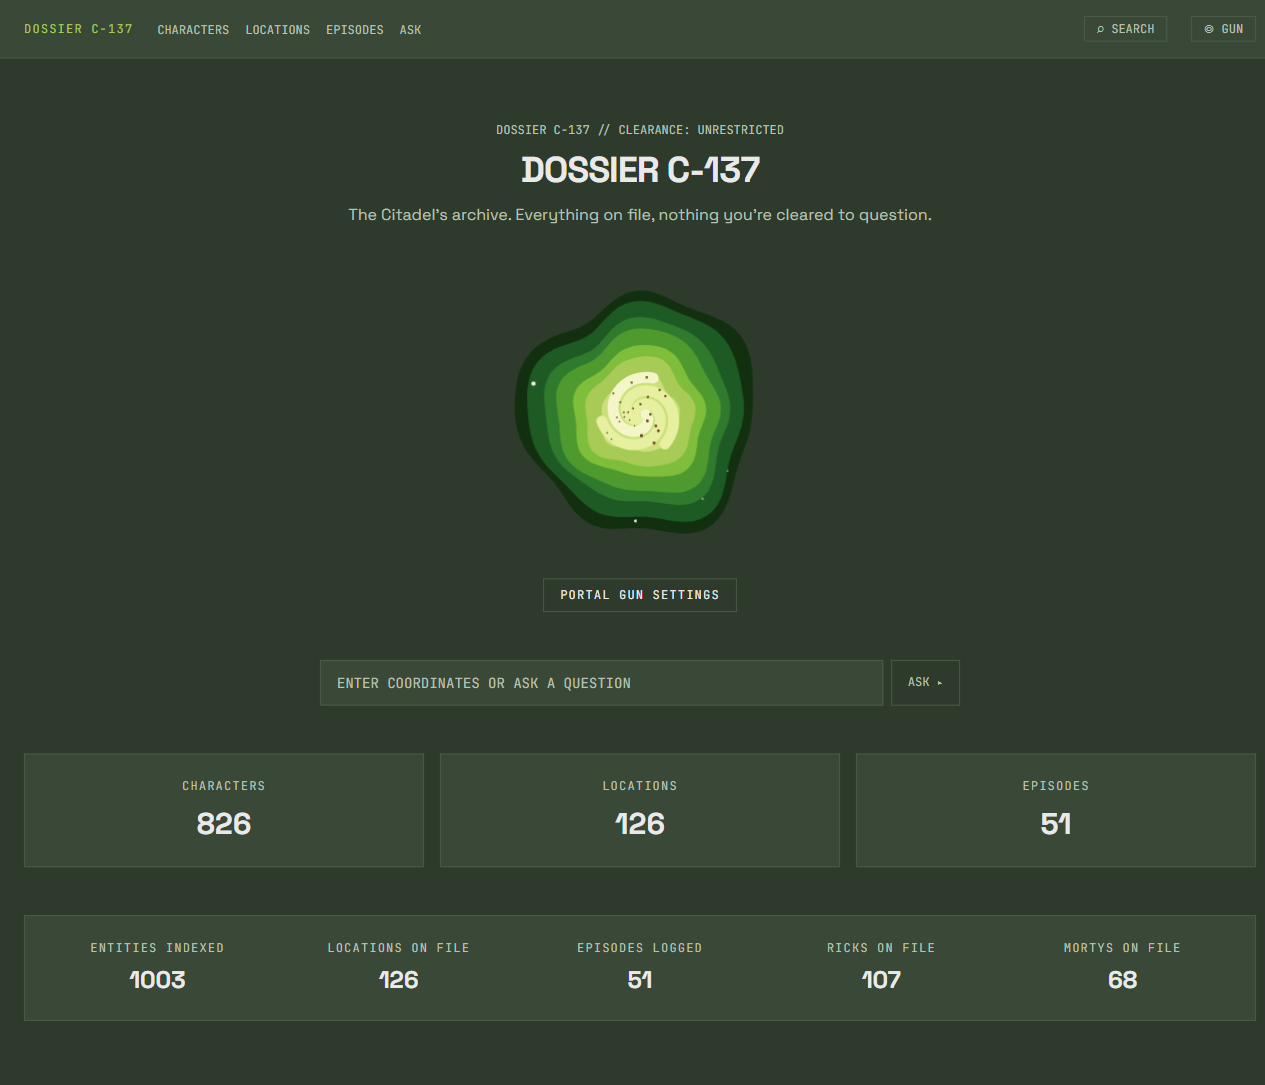
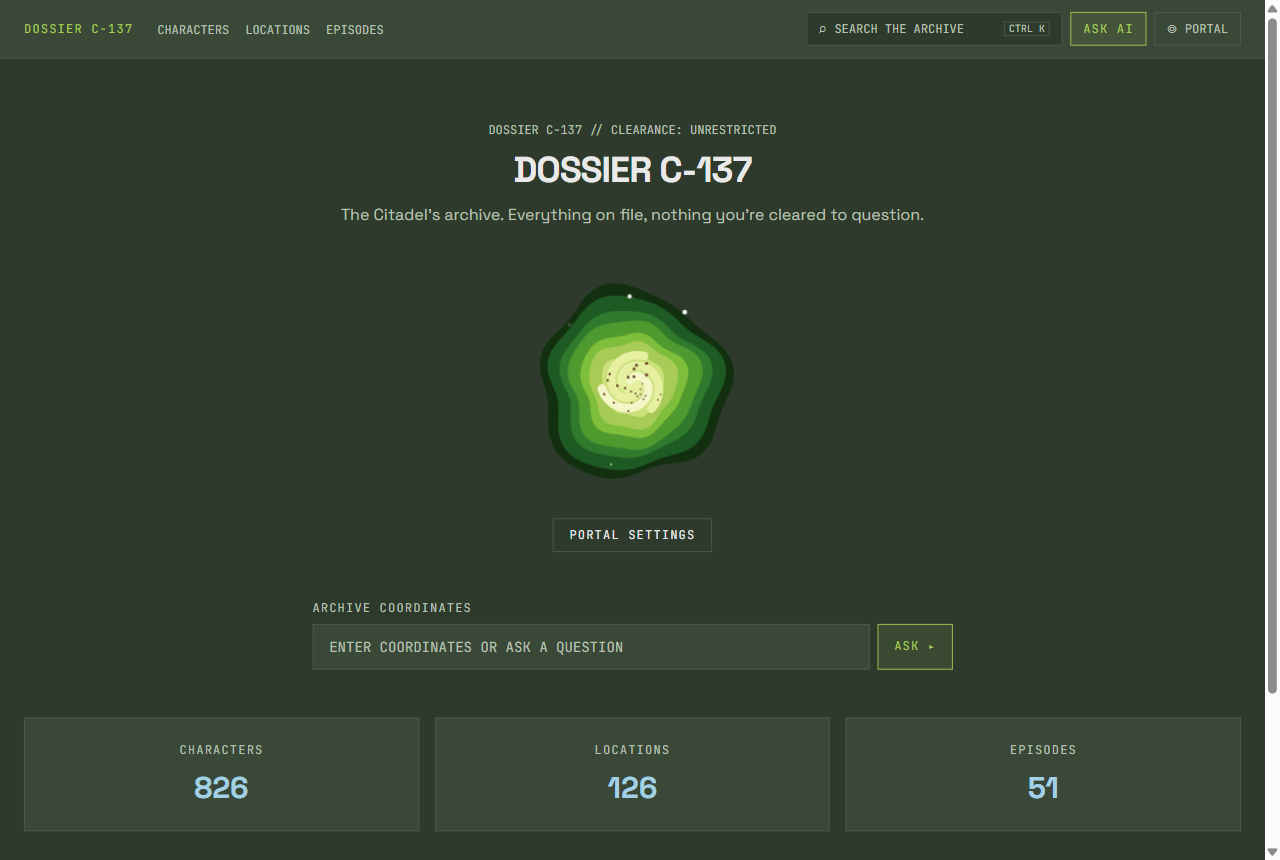
docs: refresh the README and the review record for the second pass
New behaviour in the feature list, the audio note rewritten now that the
setting is gone too, test count at 445, screenshots retaken against the new
header, and the review document turned from "what is left" into "what closed
each finding".

Claude-Session: https://claude.ai/code/session_01PLY2pXq8wKKG8ssLbBiP7M

diff --git a/README.md b/README.md
@@ -21,11 +21,15 @@ records.
 
 - **Three sections** — characters, locations, episodes — each with filters, pagination and skeleton loading.
 - **Detail pages arrive whole.** A character dossier carries its origin, its last known location and every episode it appears in; the frontend never fans out into a dozen follow-up requests.
-- **Search across all three entity types at once**, from `⌘K` / `Ctrl+K`, from the header, or from the hub.
+- **Search across all three entity types at once**, from `⌘K` / `Ctrl+K`, from the header field, or from the hub.
+- **Long rolls are paged, not dumped.** Fifty-one episodes on a dossier become one slide per season, and a hundred residents become pages of eight — arrows on a desktop, an ordinary swipe on a phone, because the track is a real scroll container with snap points.
+- **Episodes filter by season** from a chip row, on top of the title and code fields.
+- **In-page back and forward**, plus a trail of where you are, so moving sideways through the archive does not depend on the browser chrome. Every route change starts at the top of the page.
 - **A grounded AI chat.** Ask a question in English; the server retrieves real records first and hands the model those records as its only permitted source of facts. The sources are shown, and they are clickable.
 - **A generated field assessment on every character**, in the voice you chose, written once and stored forever.
 - **Three dimensions instead of two themes** — `C-137` (dark), `Citadel` (light), `Cronenberg-1` (dark) — persisted, and applied before first paint so a light-theme visitor never sees a dark flash.
-- **The portal transition is the loading indicator.** It lasts exactly as long as the request behind it.
+- **The portal transition is the loading indicator.** It lasts exactly as long as the request behind it, as a small badge over a blurred scrim rather than a full-screen takeover.
+- **Settings are three tabs** — dimension, AI voice, motion — in a popover anchored to the header, not a column that pushes the page down.
 
 ## Every external call happens on the server
 
@@ -181,25 +185,27 @@ into something automatically verified rather than a matter of trust.
 
 ## Known issues
 
-- **There is no audio.** Dossiers are read, not narrated. A second paid provider with its own quota and failure modes was not worth a button nobody grades; the AI bonus is carried by the grounded chat and the dossiers, which are the parts that show retrieval and prompt work. The specification still lists ElevenLabs under its stack — the README is the accurate document.
+- **There is no audio at all.** Dossiers are read, not narrated, and the portal fires silently — the synthesized whoosh and its setting were removed rather than left as a toggle nobody wanted. A second paid provider with its own quota and failure modes was not worth a button nobody grades; the AI bonus is carried by the grounded chat and the dossiers, which are the parts that show retrieval and prompt work. The specification still lists ElevenLabs under its stack — the README is the accurate document.
 - **Edge Function cold starts** add 200–500 ms to the first request after an idle period. The portal transition absorbs it, but a cold first load is visibly slower.
 - **AI daily quotas.** 30 questions and 10 dossier generations per caller per day, plus a global ceiling of 500. Exhausting one returns a portal-gun-out-of-fluid message, not an error page.
 - **No SSR**, so the first paint waits for JavaScript.
-- **The first `Ctrl+K` after typing a URL** can be swallowed by the browser's address bar, which still holds focus. Click once in the page, or use the `⌕ SEARCH` button. The listener itself is attached above every lazy route boundary — there is a test for that.
+- **The first `Ctrl+K` after typing a URL** can be swallowed by the browser's address bar, which still holds focus. Click once in the page, or use the header's search field. The listener itself is attached above every lazy route boundary — there is a test for that.
 - **The AI voices can converge over a long conversation.** Each question carries the last six turns back to the model, and a model reads its own earlier prose as a style guide. The prompt now forbids imitating an earlier turn, and on a fresh question the two are plainly distinct — Rick opens "Who cares, another Birdperson," Morty opens "Aw jeez, um…" — but the pull is still there deep into a thread. Switching voice mid-conversation is the workaround.
-- **Half of all origins are `unknown`** upstream. The redaction bar is a routine field state here, not a flourish.
+- **Half of all origins are `unknown`** upstream. A `REDACTED` chip is a routine field state here, not a flourish; a value the archive never held reads `NOT ON FILE` instead.
+- **Route changes give up the browser's scroll restoration.** Going back to a list returns you to its top rather than to the row you left — deliberate, because arriving mid-page reads as a broken render.
 
 ## Testing
 
-428 tests: 272 on the frontend under Vitest with React Testing Library and MSW,
+445 tests: 289 on the frontend under Vitest with React Testing Library and MSW,
 156 on the backend under Deno test against stubbed clients. Both suites, the
 build and the lint pass on `main` as published — `npm run lint` reports 0 errors
 and 13 `react-refresh/only-export-components` warnings, all of them on filter
 components that export a constant beside the component.
 
 Effort concentrates on branching logic rather than markup: filter parsing, cache
-keys, relation expansion, the portal state machine, retrieval and grounding,
-quota accounting, and the contrast grid. `npm test` does not type-check — Vitest
+keys, relation expansion, the portal state machine, season grouping and the
+carousel pager, in-page history, retrieval and grounding, quota accounting, and
+the contrast grid. `npm test` does not type-check — Vitest
 transpiles without checking — so `npm run build` is part of every verification.
 
 ## How it was built
@@ -214,3 +220,4 @@ test-first with the tests written before the code.
 | [`docs/superpowers/plans/`](docs/superpowers/plans/) | Five plans: foundation, entities, portal, AI, polish |
 | [`docs/design/tokens.md`](docs/design/tokens.md) | Ten source colours, three palettes, every pair contrast-checked |
 | [`docs/design/visual-direction.md`](docs/design/visual-direction.md) | The direction taken, the alternatives rejected, and why |
+| [`docs/superpowers/design-review-remaining.md`](docs/superpowers/design-review-remaining.md) | The design review: every finding, and the commit that closed it |

diff --git a/docs/superpowers/design-review-remaining.md b/docs/superpowers/design-review-remaining.md
@@ -1,10 +1,10 @@
-# Design review — what is fixed and what is left
+# Design review — findings and what closed them
 
-Run 2026-08-20 against the dev server at 1280px and 375px, with the live API
-behind it. Five findings fixed and committed; the rest are recorded here with
-the evidence, so the next session can pick them up without re-measuring.
+Two passes, both run against the dev server at 1280px and 375px with the live
+API behind it. Every finding below is closed; the evidence is kept so a later
+session can tell a deliberate decision from an accident.
 
-## Fixed
+## Pass one — 2026-08-20, findings 001–005
 
 | ID | Finding | Commit |
 |---|---|---|
@@ -14,43 +14,33 @@ the evidence, so the next session can pick them up without re-measuring.
 | 004 | Character field list had no measure cap; label at x=348, value at x=1256 | `ba3b911` |
 | 005 | The AI field assessment sat below 51 episode rows | `ba3b911` |
 
-## Left, in impact order
+## Pass two — 2026-08-20, findings 006–012
 
-**FINDING-006 — pagination buttons are both called "JUMP" (medium).**
-`src/shared/ui/Pagination.tsx`. Previous and next read `← JUMP` and `JUMP →`,
-so direction lives entirely in an arrow glyph, and the disabled previous
-button is near-invisible against the surface. Give them distinct labels and
-raise the disabled contrast.
+| ID | Finding | What closed it |
+|---|---|---|
+| 006 | Both pagination buttons read `JUMP`, and the disabled one was invisible at 40% opacity | `← PREV` / `NEXT →`, and the disabled state keeps its border and takes `--muted` instead of fading out |
+| 007 | Filter labels were sentence-case Space Grotesk beside uppercase mono placeholders | Every filter label is uppercase mono with the same tracking as the rest of the site |
+| 008 | The hub rendered in six colours, three of them green, and used neither `--link` nor `--highlight` | The three registry counts on the hub are `--link` |
+| 009 | The hub search and the ask input had a placeholder and no visible label | Both carry a printed label that survives typing |
+| 010 | Two source cards both read `Birdperson` (ids 47 and 599) | Source chips print the registry number beside the name |
+| 011 | Cards redacted an empty value with a bar; detail pages used an em dash | One treatment: `REDACTED` for a withheld value, `NOT ON FILE` for one that was never held |
+| 012 | `unknown` sat lowercase beside `Alive` and `Dead` | Normalised at the display layer |
 
-**FINDING-007 — the filter bar mixes two type systems (medium).**
-`CharacterFilters.tsx`, `LocationFilters.tsx`, `EpisodeFilters.tsx`. Labels
-render sentence-case in Space Grotesk ("Search by name", "Status") while every
-other label on the site is uppercase JetBrains Mono. The placeholders inside
-those same fields are uppercase mono. Pick one, and it should be the mono.
+## Same pass — reported from use rather than from measurement
 
-**FINDING-008 — the site is green, which its own tokens forbid (medium).**
-`docs/design/tokens.md` states the governing rule "the site must not be green"
-and budgets 5–8% for Rick blue and Morty yellow. Measured on the hub, the
-whole page renders in six colours, three of them green, and neither `--link`
-nor `--highlight` appears at all. FINDING-002 put the first blue on the ask
-page. The hub still needs it: the figures, the registry numbers, or the
-active nav item are the natural candidates.
-
-**FINDING-009 — placeholder is the only visible label (medium).**
-The hub search and the ask input carry `aria-label` but no visible label, so
-the prompt disappears the moment the visitor types. Screen readers are fine;
-sighted users lose the context.
-
-**FINDING-010 — duplicate source cards are indistinguishable (polish).**
-Asking "Who is Birdperson?" returns two cards both reading `Birdperson`
-(ids 47 and 599). Add the registry number or the species to disambiguate.
-
-**FINDING-011 — two empty-value treatments (polish).**
-Character cards use a redaction bar for an unresolved origin; the detail page
-uses an em dash for an empty type. One of them should win.
-
-**FINDING-012 — "unknown" is lowercase beside "Alive" and "Dead" (polish).**
-Upstream casing, rendered raw. Normalise at the display layer.
+| Finding | What closed it |
+|---|---|
+| A solid bar of `--fg` read as a broken image, not as a censored field — a black rectangle in the light dimension, a white one in the dark | `RedactionBar` is a word inside a dashed outline |
+| The search overlay floated on a translucent scrim, so the page headline read straight through its hint text | The dialog owns an opaque panel; the scrim is `--bg` at 85% with a blur |
+| The settings panel printed five settings at once, tall enough to cover the page, and was laid into the header flow so opening it pushed the page down | Three tabs — dimension, AI voice, motion — in a popover anchored to the header controls, dismissed by Escape or a click outside |
+| The portal transition took the whole viewport for the length of every navigation | A 132px badge over a light blurred scrim |
+| `⌘K` printed on the search control is a key a Windows visitor does not have | `CTRL K`, with the Mac glyph only on Apple platforms |
+| The header gave the search control the leftovers of a nav row, and `ASK` was the fourth link in a row of registries | Search is a wide field and ask is an accent-bordered control beside it; on a phone the pair takes a full-width row of its own |
+| Fifty-one episode rows on a character dossier, a hundred residents on a location | One carousel: a slide per season for episodes, pages of eight for a roster. Arrows on a desktop, swipe on a phone |
+| Fifty-one episodes were reachable only by paging | A season chip row on the episodes page, on top of the title and code fields |
+| A new page opened wherever the last one was scrolled to | Every route change, pagination included, starts at the top |
+| Navigation depended on the browser's own back button | An in-page back/forward bar with a trail, under the header on every route but the hub |
+| Portal SFX | Removed outright, along with its setting and its module |
 
 ## Not a finding, but worth knowing
 
